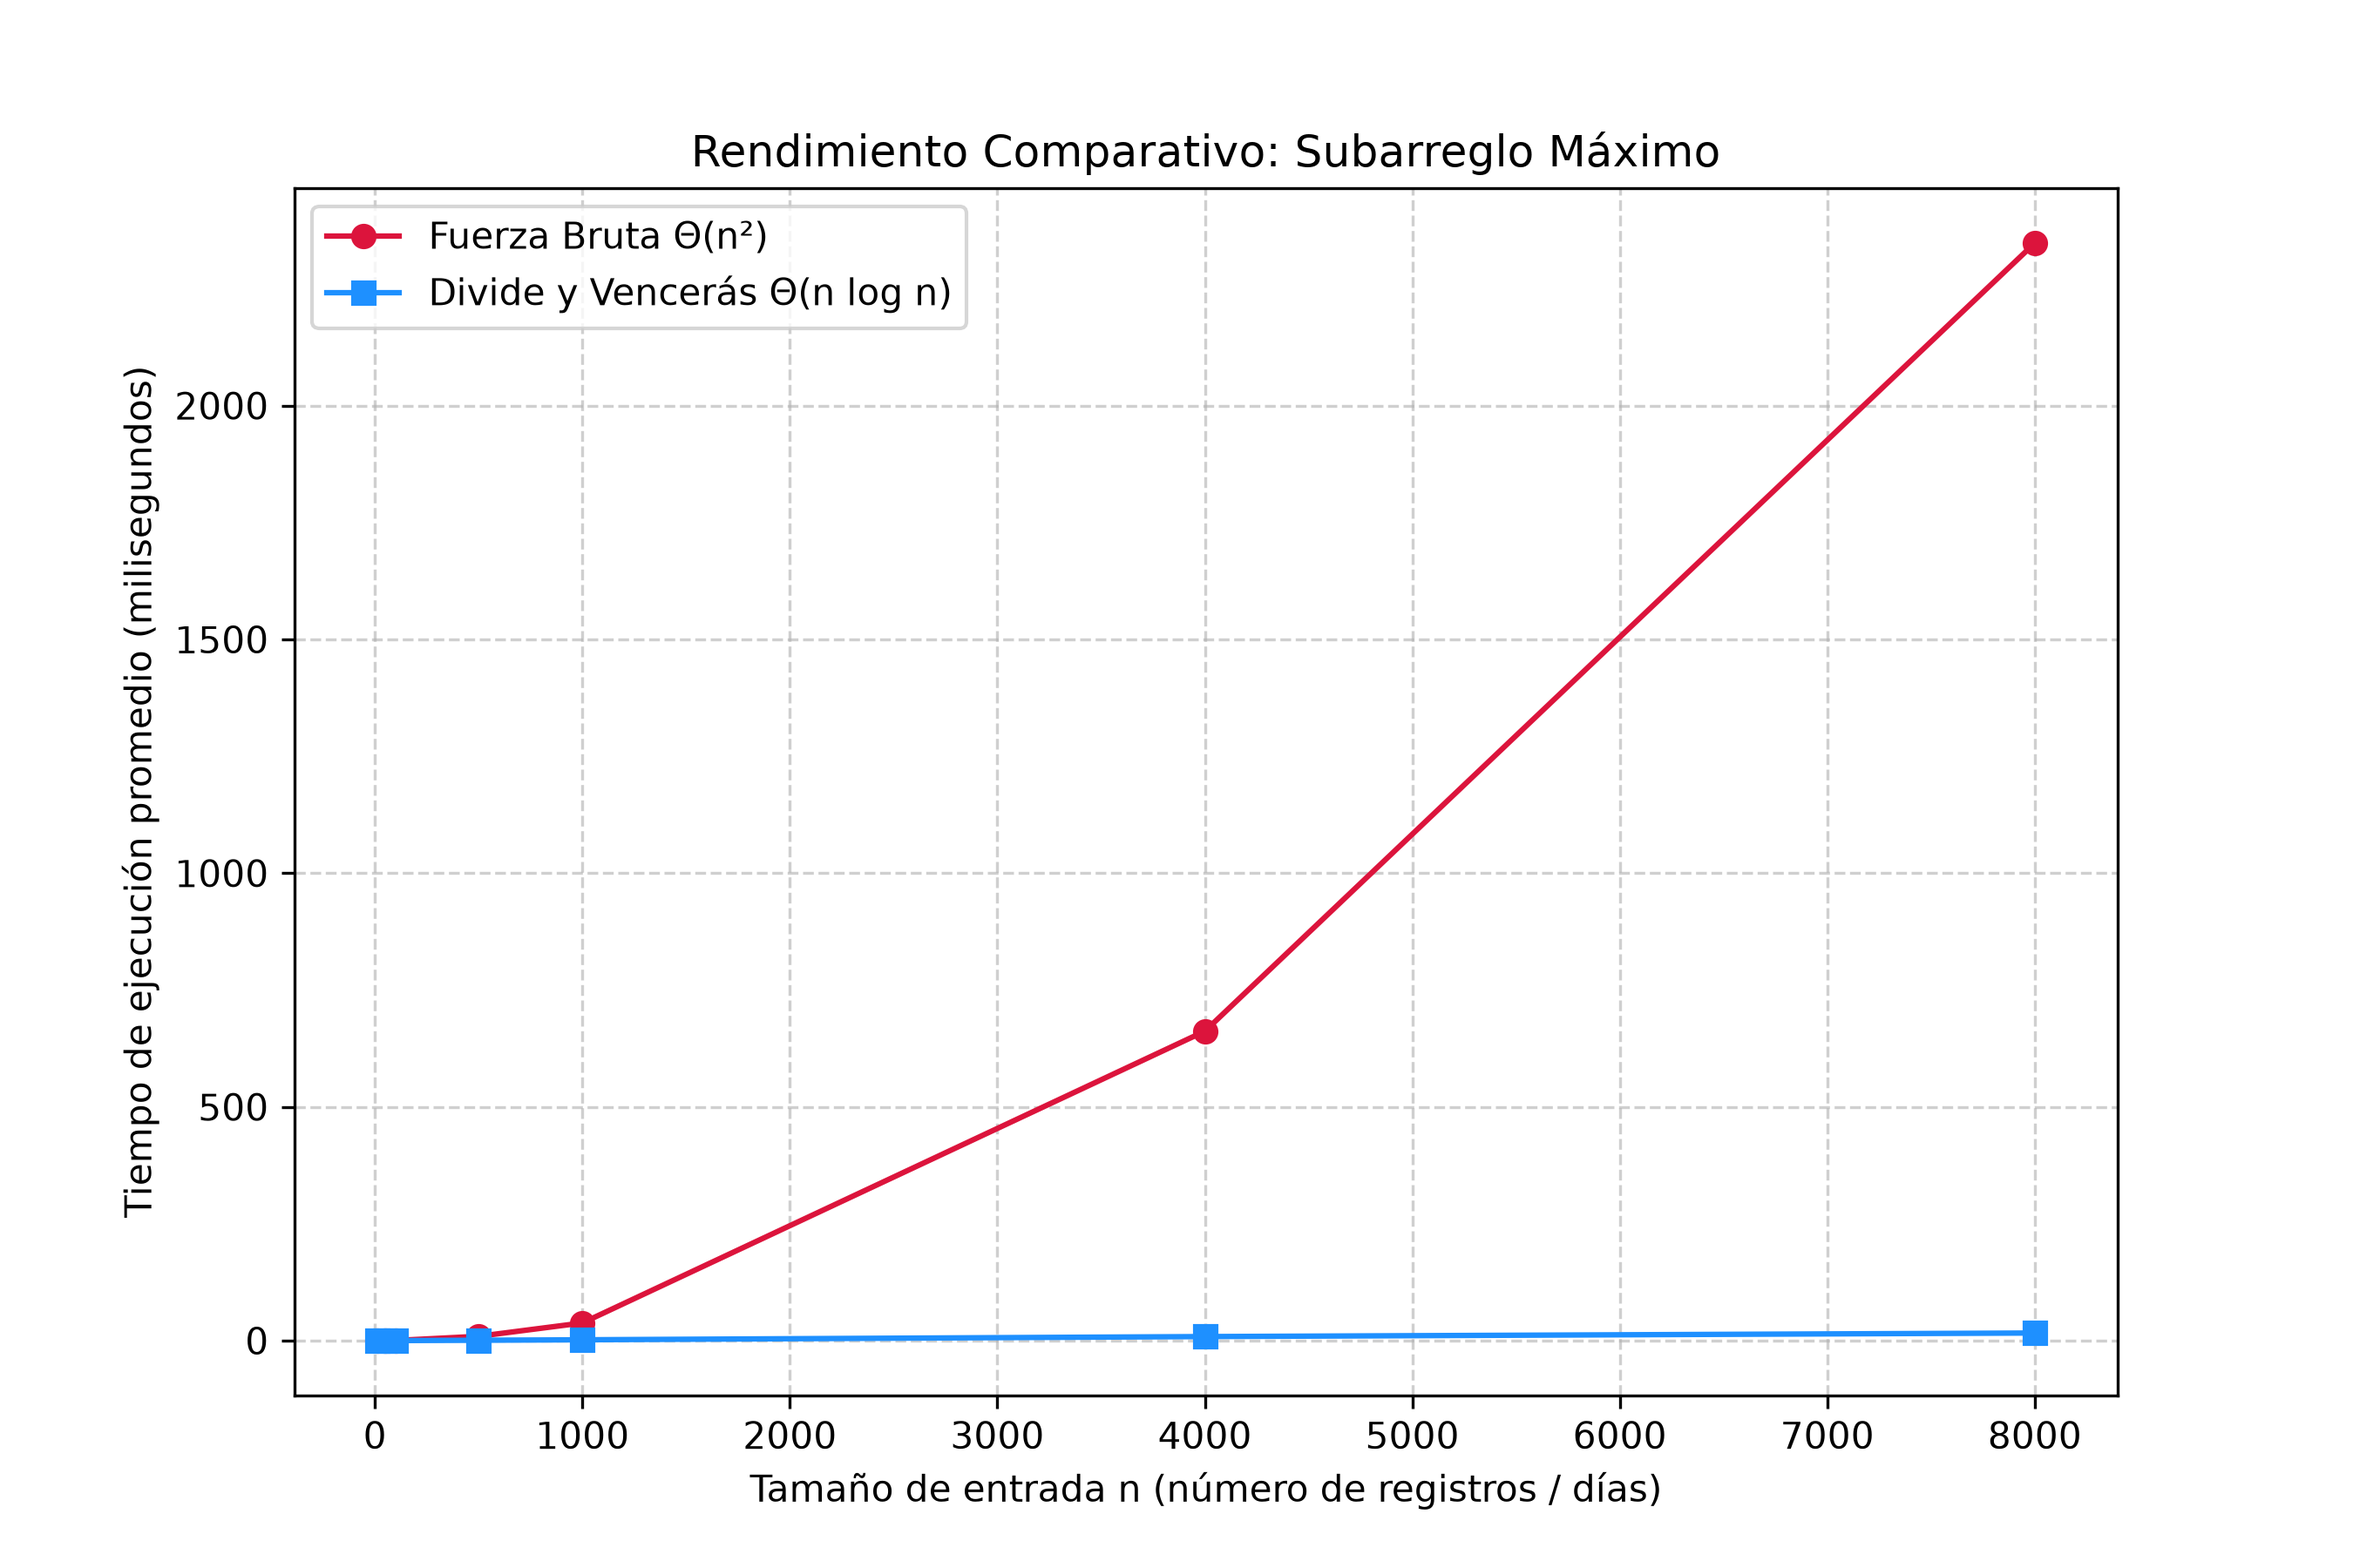
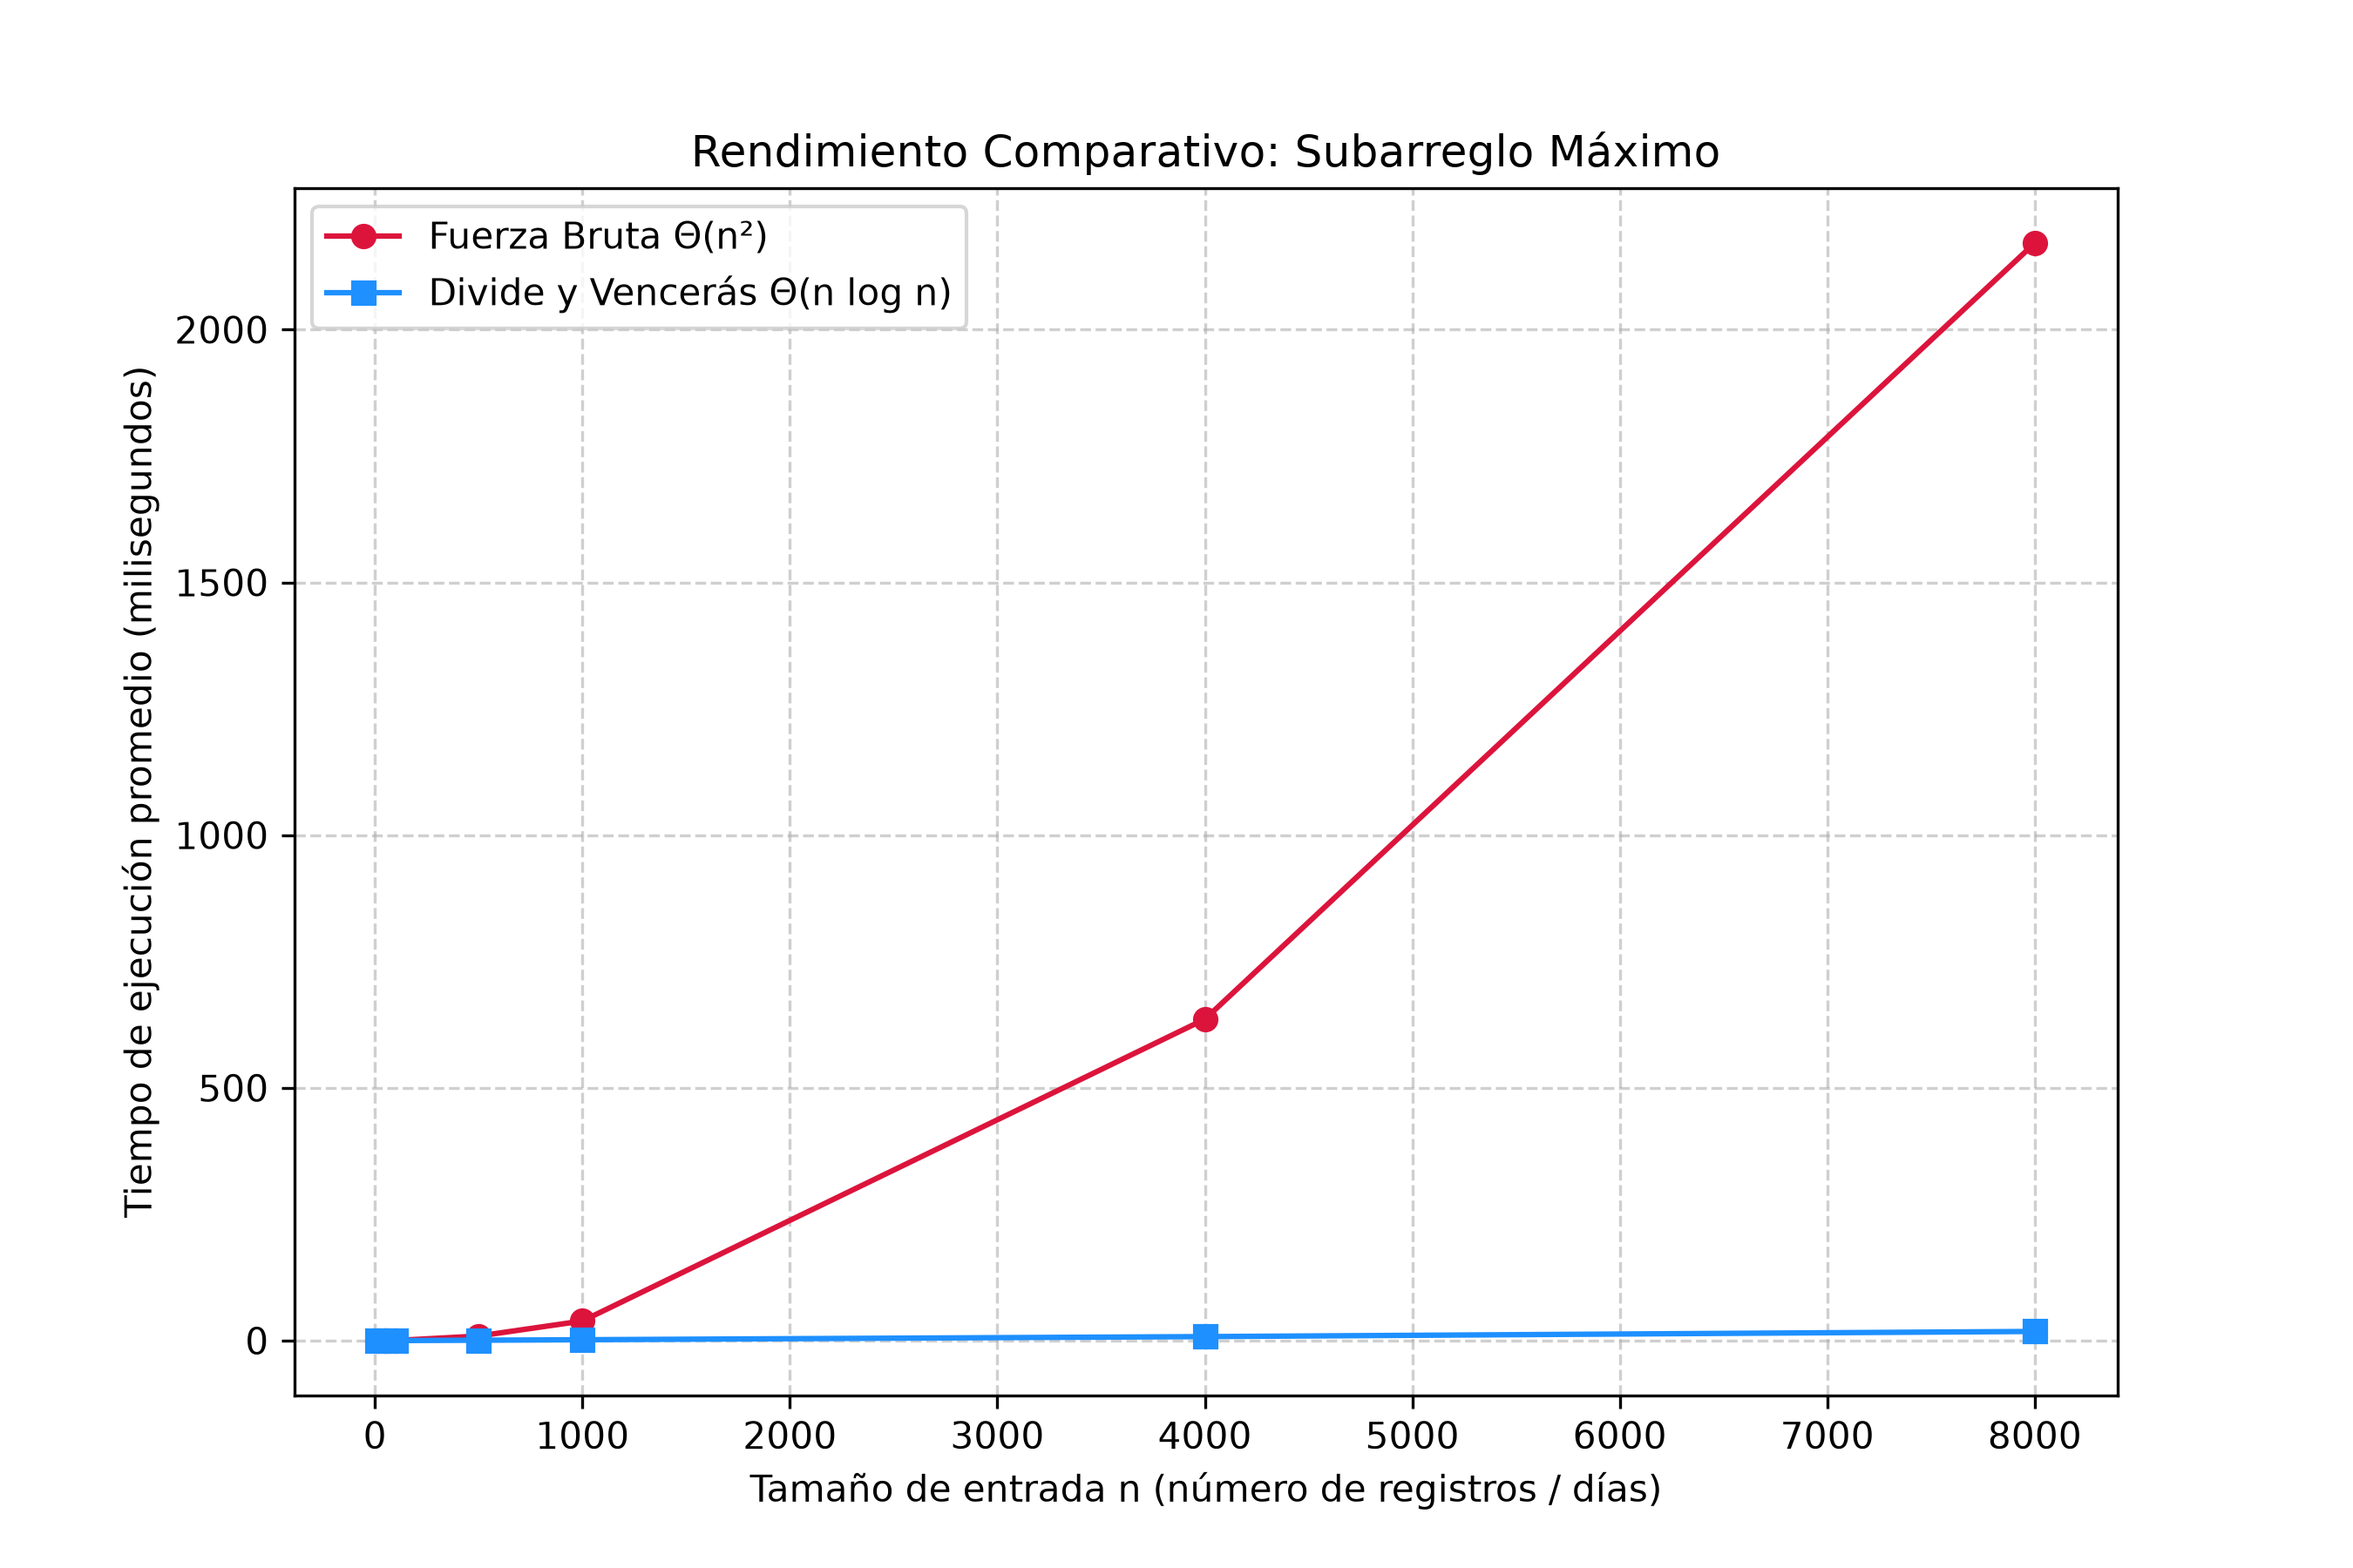
Agrega desarrollo conceptual, mejora gráfica de tiempos

diff --git a/laboratorios/lab2-divide-y-vencer/README.md b/laboratorios/lab2-divide-y-vencer/README.md
@@ -1,0 +1,72 @@
+# Laboratorio Evaluativo 02: Dividir y Vencer
+
+* **Estudiante:** Leonel Antonio Martínez Silgado
+* **Curso:** Análisis de Algoritmos
+
+---
+
+## Instrucciones de Reproducción
+
+Para verificar y reproducir los experimentos en el entorno de desarrollo local:
+1. Abra la terminal en la raíz del repositorio y active el entorno virtual:
+   * En Windows: `venv\Scripts\activate`
+   * En macOS / Linux: `source venv/bin/activate`
+2. Instale o verifique las dependencias necesarias: `pip install -r requirements.txt`
+3. Ejecute el script de pruebas unitarias: `python pruebas.py`
+4. Ejecute el script de medición y generación de la gráfica: `python medicion.py`
+
+---
+
+## Parte 1 — Implementación y Verificación
+
+Los códigos fuente correspondientes a la implementación de los algoritmos y las pruebas unitarias se encuentran en los siguientes enlaces del repositorio:
+* [Enlace a subarreglo.py](./subarreglo.py)
+* [Enlace a pruebas.py](./pruebas.py)
+
+**Verificación:**  
+La correctitud de las funciones se validó mediante aserciones (`assert`) en el archivo `pruebas.py`, cubriendo exhaustivamente los siguientes escenarios:
+* La serie de ocho días de la cooperativa (variaciones `-3, 5, -2, 8, -6, 3, 9, -4`), comprobando que la suma óptima sea `17`.
+* Un caso con un arreglo unitario de un solo elemento.
+* Arreglos con todos sus valores negativos.
+* Arreglos con todos sus valores positivos.
+* Un caso donde el tramo de mayor suma cruza explícitamente por el punto medio.
+* 20 listas aleatorias de tamaños variables, comparando que ambas funciones devuelvan exactamente el mismo resultado de suma máxima.
+
+---
+
+## Parte 2 — Medición y Gráfica
+
+El código del experimento de rendimiento se encuentra en el siguiente enlace:
+* [Enlace a medicion.py](./medicion.py)
+
+**Notas sobre la medición:**  
+El tiempo de ejecución se midió cronometrando únicamente la llamada a las funciones mediante `time.perf_counter()`, aislando por completo la generación de los datos. Para mitigar el ruido del sistema operativo, cada tamaño de entrada ($n$) se ejecutó promediando 5 repeticiones consecutivas. Se utilizó una semilla fija (`42`) para garantizar la total reproducibilidad de los datos de entrada, asegurando que ambos algoritmos evaluaran exactamente la misma secuencia numérica en cada tamaño.
+
+![Gráfica de tiempo vs n](./graficas/tiempo_vs_n.png)
+
+---
+
+## Parte 3 — Análisis de Resultados
+
+### 1. Recurrencia
+La función `subarreglo_maximo` divide el problema en dos subproblemas de tamaño $n/2$, lo que genera el término $2T(n/2)$. El proceso de combinación se realiza a través de la función `suma_cruzada`, la cual ejecuta dos barridos lineales independientes desde el punto medio hacia los extremos, tomando un tiempo lineal $\Theta(n)$. Por lo tanto, la ecuación de recurrencia es:
+$$T(n) = 2T(n/2) + \Theta(n)$$
+Aplicando el Caso 2 del Método Maestro ($a = 2$, $b = 2$, $f(n) = \Theta(n) = \Theta(n^{\log_b a})$), la solución analítica es **$\Theta(n \log n)$**.  
+La fuerza bruta implementa dos ciclos anidados que acumulan la suma de forma interna sin recalcular desde cero, recorriendo los pares posibles $n(n-1)/2$ veces, lo que resulta en una complejidad temporal de **$\Theta(n^2)$**.
+
+### 2. Lo medido contra lo esperado
+A partir de la gráfica generada, observamos el comportamiento al duplicar el tamaño de entrada de $n = 4000$ a $n = 8000$:
+* **Fuerza Bruta ($\Theta(n^2)$):** El tiempo pasa de aproximadamente $630\text{ ms}$ en $n = 4000$ a unos $2170\text{ ms}$ en $n = 8000$. Al calcular el factor de crecimiento, el tiempo se multiplica por un factor cercano a $3.44$ (próximo al factor teórico de $4$ esperado al duplicar en una curva cuadrática debido a pequeñas variaciones de carga en el sistema operativo).
+* **Divide y Vencerás ($\Theta(n \log n)$):** El tiempo pasa de fracciones muy pequeñas de milisegundos a mantenerse sumamente plano y eficiente (por debajo de $20\text{ ms}$ en esos mismos puntos), reflejando un crecimiento logarítmico-lineal casi imperceptible a escala macro frente a la fuerza bruta.
+
+### 3. Tamaños pequeños
+En nuestras mediciones, el enfoque de Divide y Vencerás muestra una ventaja competitiva desde tamaños muy tempranos (a partir de $n = 50$). No se observa un punto de retraso o sobrecoste significativo por la recursión en Python dentro de este rango, ya que el costo constante de las llamadas apiladas es mínimo frente al rápido crecimiento de las iteraciones de la fuerza bruta.
+
+### 4. ¿Cuándo conviene dividir?
+Para un problema distinto, como hallar el valor máximo de un arreglo desordenado de $n$ elementos, **no** conviene aplicar divide y vencerás. Dicho problema se resuelve de manera óptima con una única pasada lineal en $\Theta(n)$. Si se estructurara mediante divide y vencerás, obtendríamos la recurrencia $T(n) = 2T(n/2) + O(1)$, la cual por el Método Maestro arroja $\Theta(n)$, pero añadiendo una sobrecarga innecesaria de llamadas recursivas y administración de pila. Dividir solo es útil cuando el rendimiento del caso combinado (como el cruce en el subarreglo máximo) compensa la división al descartar o combinar subestructuras de forma eficiente.
+
+### 5. Concepto para la gerente
+Se recomienda a la gerente financiera utilizar el algoritmo de **Divide y Vencerás ($\Theta(n \log n)$)** para analizar el historial de las tiendas y de los sensores futuros.  
+*Estimación matemática:* Tomando como referencia la tendencia de la gráfica y los datos experimentales para $n = 8000$, si proyectamos analíticamente el comportamiento hacia una serie masiva de **$1.000.000$ de registros** ($n = 1.000.000$):
+* **Fuerza Bruta ($\Theta(n^2)$):** Dado que el crecimiento es cuadrático, al escalar el tamaño de entrada por un factor aproximado de $125$ ($1.000.000 / 8000$), el tiempo aumentará en un factor de $125^2 = 15.625$ veces, lo que se traduciría en horas de procesamiento por cada tienda (haciéndolo totalmente inviable en la práctica).
+* **Divide y Vencerás ($\Theta(n \log n)$):** Al escalar de forma logarítmica-lineal, el incremento de tiempo es exponencialmente menor, estimando que procesar un millón de registros tomaría apenas una fracción de segundo (alrededor de un segundo o menos). Declaramos que esto es una estimación basada en la tendencia empírica de nuestra curva y su complejidad teórica.
